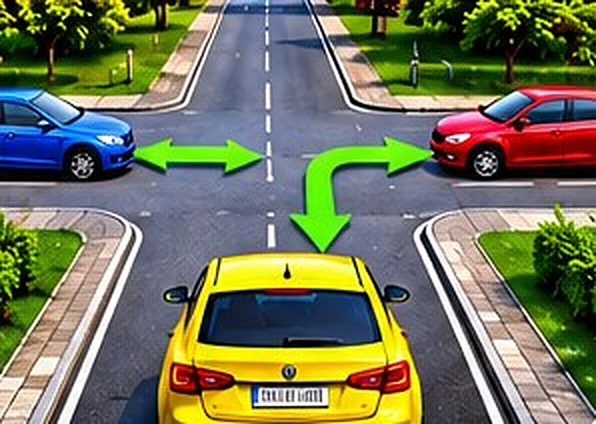
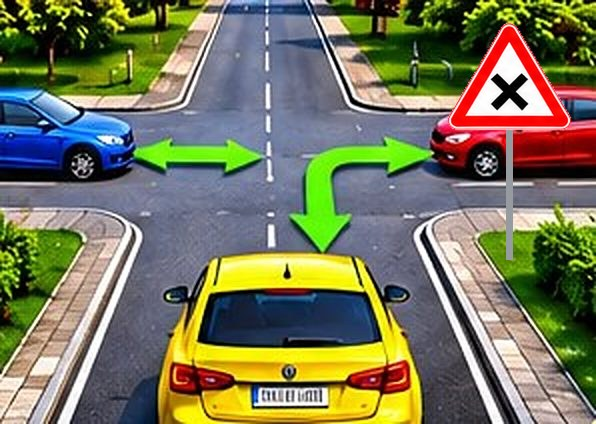
Controllo cartelli: tolte le lezioni senza foto, cartello aggiunto nella foto dell'incrocio, tolta scritta dalla foto catene; icona del cartello visto dalla telecamera mentre parla
Claude-Session: https://claude.ai/code/session_011jWw9uz1afUtQaAaUrXBj7

Changed region(s): [[0.755, 0.0307, 0.9664, 0.6132]]

diff --git a/index.html b/index.html
@@ -78,6 +78,7 @@ const LONG={"Rotatoria": "Oggi parliamo della rotatoria, con calma. La rotatoria
 lessons.forEach(t=>{if(LONG[t[0]])t[5]=LONG[t[0]]});
 try{const have=new Set(lessons.map(t=>t[0].toLowerCase()));(typeof curriculum!=='undefined'?curriculum:[]).forEach(c=>{if(have.has(String(c[0]).toLowerCase()))return;lessons.push([c[0],'',c[2],c[3],'','Oggi parliamo di '+c[0]+'. Lo trovi nel codice della strada, '+String(c[1]).replace(/Art\./g,'articolo').replace(/;/g,',')+'. '+c[2]+' Ripeto, perché è importante: '+c[2]+' Il consiglio dell\'istruttore: '+c[3]+' Ricapitoliamo: '+c[0]+'. '+c[3],null,1])})}catch(e){}
 const PHOTO={"Rotatoria":"rotatoria.jpg","Semaforo rosso":"semaforo_rosso.jpg","Semaforo giallo":"semaforo_giallo.jpg","Passaggi a livello":"pl_barriere.jpg","Pioggia, nebbia e aderenza":"sdrucciolevole.jpg"};lessons.forEach(t=>{if(!t[6]&&PHOTO[t[0]])t[6]=PHOTO[t[0]]});
+for(let i=lessons.length-1;i>=0;i--)if(!lessons[i][6])lessons.splice(i,1);
 const SIGNKEY={"STOP":"stop","Divieto di accesso":"noentry","Senso unico":"oneway","Distanza di sicurezza":"distance"};lessons.forEach(t=>{if(!t[4]&&SIGNKEY[t[0]])t[4]=SIGNKEY[t[0]]});
 function richText(t){if(t[7]!==1)return null;try{return localStorage.getItem('ppi-rich-'+t[0])}catch(e){return null}}
 async function enrich(i){const t=lessons[i];if(!t||t[7]!==1||richText(t)||!window.aiReady||!window.aiReady())return;try{const txt=await window.aiCall([{role:'user',content:'Scrivi una lezione parlata di scuola guida sull\'argomento: "'+t[0]+'" (patente B italiana, codice della strada). Base di partenza: '+t[2]+' '+t[3]+' Parla come un istruttore paziente, frasi brevi e semplici, circa 15 frasi, con un esempio pratico di guida, le regole precise che chiedono all\'esame e una ricapitolazione finale. Solo testo da leggere ad alta voce, niente elenchi né simboli.'}],'Sei un istruttore di scuola guida italiano, preciso sul codice della strada.',900);if(txt&&txt.length>300)try{localStorage.setItem('ppi-rich-'+t[0],txt.replace(/[*#_]/g,''))}catch(e){}}catch(e){}}
@@ -544,9 +545,18 @@ async function readSign(manual){if(signBusy)return;if(!aiKey()){camTag('manca ch
   if(!c||!c.nome){camTag('nessun cartello');if(manual)Voice.say('Adesso non vedo cartelli chiari davanti a te.',true);return}
   const k=norm(c.nome);if(!manual&&seenSign[k]){camTag('già spiegato: '+c.nome);return}
   seenSign[k]=Date.now();try{localStorage.setItem('ppi-signs-said2',JSON.stringify(seenSign))}catch(e){}
-  camTag('✅ '+c.nome);Voice.say('Guarda, hai visto questo cartello? È '+c.nome+'.');String(c.spiegazione||'').match(/[^.!?]+[.!?]?/g)?.map(x=>x.trim()).filter(Boolean).forEach(x=>Voice.say(x))}
+  camTag('✅ '+c.nome);showSignIcon(c.nome);Voice.say('Guarda, hai visto questo cartello? È '+c.nome+'.');String(c.spiegazione||'').match(/[^.!?]+[.!?]?/g)?.map(x=>x.trim()).filter(Boolean).forEach(x=>Voice.say(x))}
  catch(e){camTag('⚠ '+(e.message||'errore'));if(manual)Voice.say('Non riesco a leggere il cartello: '+(e.message||'errore')+'.',true)}finally{signBusy=false}}
 window.readSign=readSign;
+const sigBox=document.createElement('div');sigBox.className='seenSign';sigBox.innerHTML='<img alt=""><b></b>';document.body.appendChild(sigBox);let sigT=null;
+function signIcon(name){const n=norm(name);const L=window._courseLessons||[];let best=null,bs=0;
+ for(const t of L){if(!t[6]||t[7]===1)continue;const k=norm(t[0]);if(k===n)return t;const w=k.split(' ').filter(x=>x.length>3);if(!w.length)continue;const sc=w.filter(x=>n.includes(x)).length/w.length;if(sc>bs){bs=sc;best=t}}
+ return bs>=0.6?best:null}
+function showSignIcon(name){const t=signIcon(name);const img=sigBox.querySelector('img');
+ if(t&&/\.jpg$/.test(t[6])){img.src=t[6].replace(/\.jpg$/,'_s.png');img.style.display='block';img.onerror=()=>{img.style.display='none'}}else img.style.display='none';
+ sigBox.querySelector('b').textContent=name;sigBox.classList.add('on');clearTimeout(sigT);const t0=Date.now();
+ const hide=()=>{if(Date.now()-t0<6000||Voice.busy){sigT=setTimeout(hide,700);return}sigBox.classList.remove('on')};sigT=setTimeout(hide,1500)}
+window.showSignIcon=showSignIcon;
 setInterval(()=>{if(!aiSignsOn()||signBusy||document.hidden||window.aiBusy||(window.VQ&&window.VQ.active)||!camLive())return;if(Date.now()-lastSign<25000)return;readSign(false)},2000);
 setTimeout(()=>{const cb=document.querySelector('#guida .camera');if(cb)cb.addEventListener('click',e=>{if(e.target.closest('button'))return;unlockAudio();readSign(true)})},500);
 // impostazioni nella pagina Voce
@@ -795,4 +805,11 @@ window.nextQuestion=function(){if(done){list=build();i=0;err=0;render();return}
  i++;render()};
 render();})();
 </script>
+<style id="seenSignCss">
+.seenSign{position:fixed;z-index:4000;top:calc(env(safe-area-inset-top) + 70px);right:12px;display:flex;flex-direction:column;align-items:center;gap:6px;background:#fffffff5;border:3px solid #0a8a5f;border-radius:20px;padding:12px 14px;box-shadow:0 8px 28px #0006;max-width:46vw;opacity:0;transform:scale(.6);pointer-events:none;transition:opacity .3s,transform .3s}
+.seenSign.on{opacity:1;transform:scale(1)}
+.seenSign img{width:clamp(90px,26vw,150px);height:clamp(90px,26vw,150px);object-fit:contain}
+.seenSign b{font-size:15px;line-height:1.2;color:#0d2236;text-align:center}
+body.night .seenSign{background:#101f32f5}body.night .seenSign b{color:#fff}
+</style>
 </body></html>
